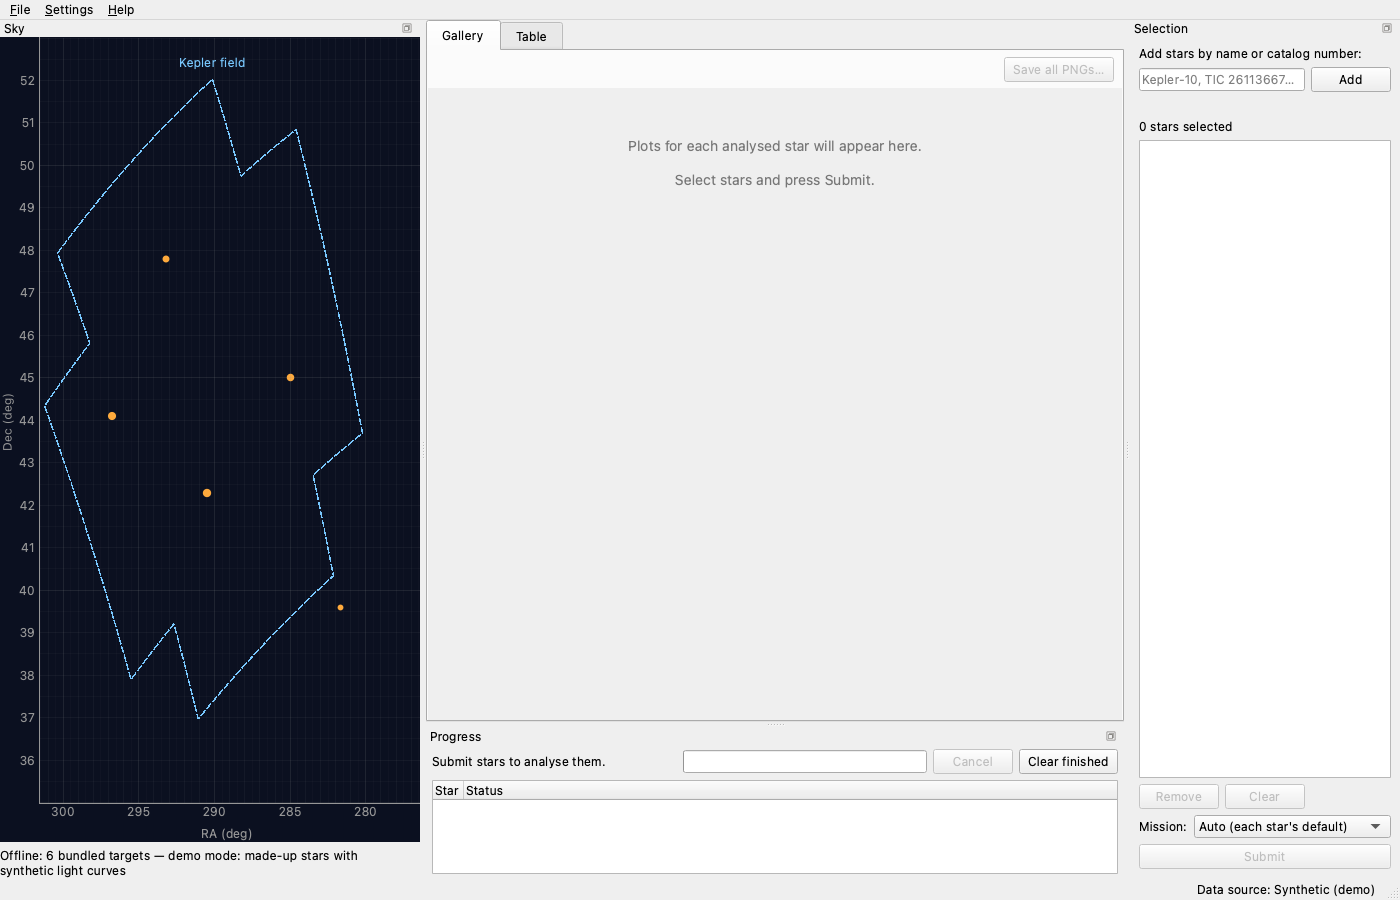
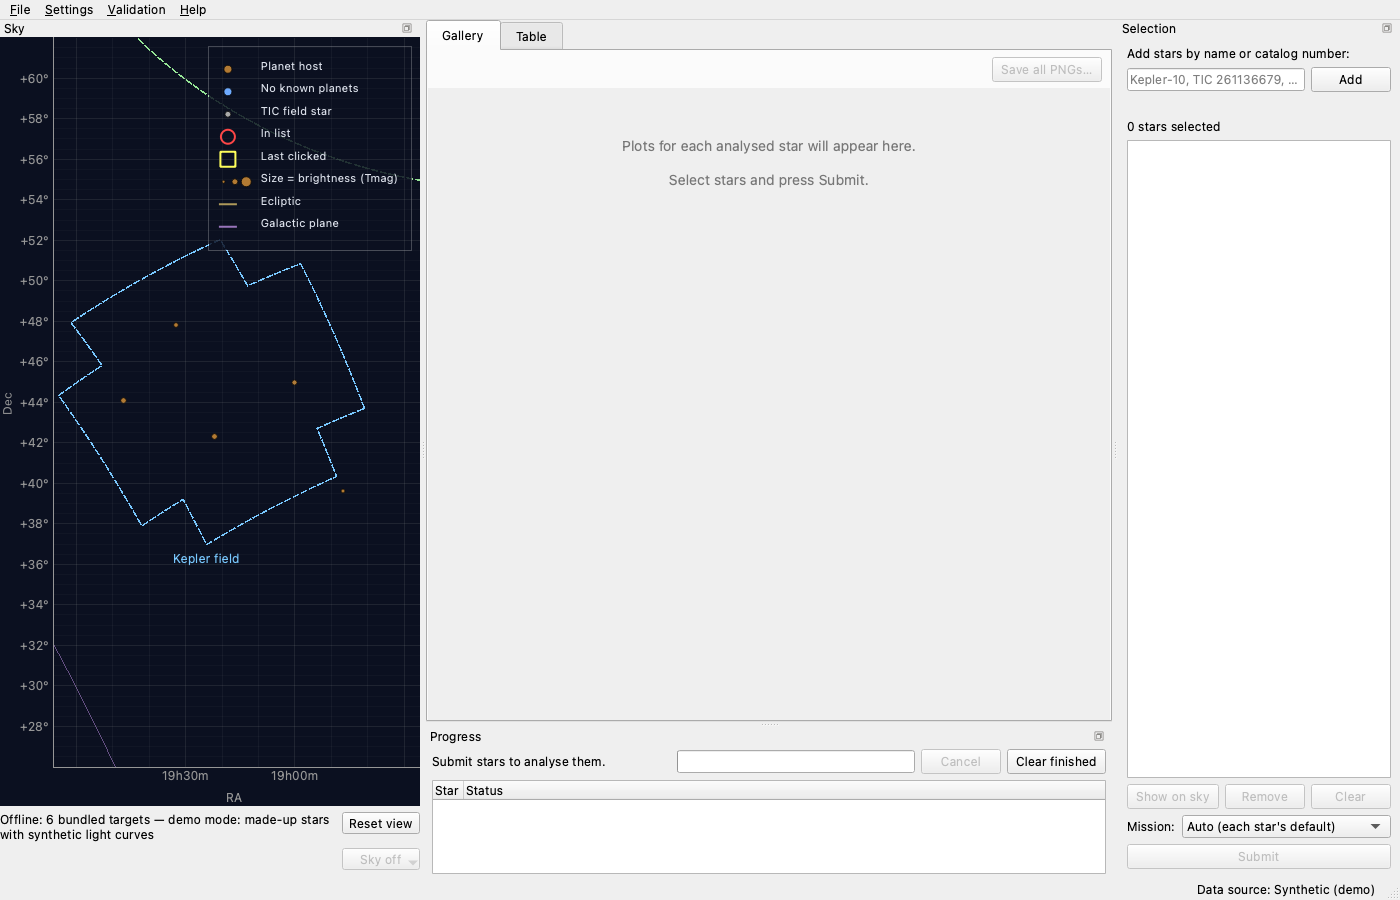
Refresh the sky screenshots and document the sky map's controls
- Retake 01-skeleton and 02-sky-selection (legend, reference lines, footer
  with Reset view and Background); add 09-sky-zoomed: Kepler-10 at 1.5°
  with its live TIC field (taken without the sky image: CDS didn't answer).
- take_shots.py: register the zoomed shot; skip a shot whose live service
  doesn't answer and keep its old file.
- sky_selection_host.py: the zoomed shot and a live-sky option; the host
  window always uses a temporary cutout cache, so the stand-in image never
  reaches the user's cache.
- README: a "The sky map" section on the legend, click and right-click,
  pan/zoom with mouse and trackpad, Reset view, Show on sky, the zoom hint,
  the Background chooser and demo mode; cache/hips/ under Cache.

diff --git a/tests/sky_selection_host.py b/tests/sky_selection_host.py
@@ -1,12 +1,15 @@
 """A test-only window holding the sky view and selection panel, wired as the dashboard will be.
 
 Used by tests/test_gui_sky.py, tests/test_gui_selection.py and the
-02-sky-selection.png screenshot.  Catalog data come from the responses
-recorded in tests/data/catalog/recorded.json, so nothing touches the network.
+02-sky-selection.png and 09-sky-zoomed.png screenshots.  In the tests,
+catalog data come from the responses recorded in
+tests/data/catalog/recorded.json and sky images from a recorded cutout, so
+nothing touches the network; the screenshots use the live services.
 """
 
 from __future__ import annotations
 
+import sys
 import tempfile
 from pathlib import Path
 
@@ -17,6 +20,7 @@ from PySide6.QtWidgets import QApplication, QSplitter
 
 from transitory.catalog import skycatalog
 from transitory.catalog.client import CatalogClient, RecordedTransport, ResponseCache
+from transitory.catalog.hips import CutoutCache
 from transitory.gui.main_window import TARGET_ZOOM_DEG
 from transitory.gui.selection_panel import SelectionPanel
 from transitory.gui.sky_view import SkyView
@@ -24,6 +28,7 @@ from transitory.gui.sky_view import SkyView
 RECORDED = Path(__file__).resolve().parent / "data" / "catalog" / "recorded.json"
 HIPS_CUTOUT = Path(__file__).resolve().parent / "data" / "catalog" / "hips_cutout.jpg"
 SHOT_NAME = "02-sky-selection.png"
+SHOT_WAIT_S = 90  # for a live TIC field or sky image
 
 
 class RecordedHipsTransport:
@@ -46,11 +51,18 @@ def recorded_client(cache_dir: Path | str | None = None) -> CatalogClient:
 
 
 class SkySelectionWindow(QSplitter):
-    def __init__(self, client: CatalogClient):
+    """``live_sky``: sky images from CDS hips2fits, not the recorded cutout.
+
+    Either way cutouts go to a fresh temporary cache, so the recorded one
+    never lands in the user's cache and a live shot never shows it.
+    """
+
+    def __init__(self, client: CatalogClient, live_sky: bool = False):
         super().__init__(Qt.Orientation.Horizontal)
         self.setWindowTitle("Sky and selection")
         self.client = client
-        self.sky = SkyView(client=client, hips_transport=RecordedHipsTransport())
+        self.sky = SkyView(client=client, hips_transport=None if live_sky else RecordedHipsTransport(),
+                           hips_cache=CutoutCache(tempfile.mkdtemp(prefix="transitory-hips-")))
         self.panel = SelectionPanel(client=client)
         self.addWidget(self.sky)
         self.addWidget(self.panel)
@@ -67,8 +79,9 @@ class SkySelectionWindow(QSplitter):
         super().closeEvent(event)
 
 
-def make_sky_selection_window(client: CatalogClient | None = None) -> SkySelectionWindow:
-    window = SkySelectionWindow(client or recorded_client())
+def make_sky_selection_window(client: CatalogClient | None = None,
+                              live_sky: bool = False) -> SkySelectionWindow:
+    window = SkySelectionWindow(client or recorded_client(), live_sky=live_sky)
     window.resize(1400, 800)
     window.setSizes([1020, 380])
     window.show()
@@ -157,7 +170,15 @@ def shot_sky_selection(app, client: CatalogClient | None = None):
     cached query; the bundled targets when offline) so the shot shows the
     real sky; the listed stars are bundled targets, so no name lookups run.
     """
-    window = make_sky_selection_window(client or CatalogClient())
+    window = _listed_window(app, client)
+    window.panel.entry.setText("KOI-72, LHS 3844")
+    app.processEvents()
+    return window
+
+
+def _listed_window(app, client: CatalogClient | None, live_sky: bool = False) -> SkySelectionWindow:
+    """The shots' window: hosts on the sky; TOI-270, pi Men and (clicked on the sky) Kepler-10 listed."""
+    window = make_sky_selection_window(client or CatalogClient(), live_sky=live_sky)
     sky, panel = window.sky, window.panel
     sky.set_catalog(skycatalog.host_stars(client=window.client))
     bundled = {s.name: s for s in skycatalog.offline_targets()}
@@ -166,6 +187,51 @@ def shot_sky_selection(app, client: CatalogClient | None = None):
     app.processEvents()
     kepler10 = next(s for s in sky.hosts if s.name == "Kepler-10")
     sky.click_at(kepler10.ra, kepler10.dec)  # adds it to the list through the wiring
-    panel.entry.setText("KOI-72, LHS 3844")
+    app.processEvents()
+    return window
+
+
+class ShotUnavailable(RuntimeError):
+    """A live service a screenshot needs did not answer; the shot is not taken."""
+
+
+def wait_until(condition, timeout_s: float) -> bool:
+    """Run the event loop until ``condition()`` holds or ``timeout_s`` passes; whether it held."""
+    for _ in range(int(timeout_s * 10)):
+        if condition():
+            return True
+        QTest.qWait(100)
+    return condition()
+
+
+def shot_sky_zoomed(app, client: CatalogClient | None = None, attempts: int = 3):
+    """Screenshot state: Kepler-10 shown on the sky from the list, with its TIC field and sky image.
+
+    With no ``client`` the field comes from live MAST and the image from
+    live CDS hips2fits.  A field that won't load raises ``ShotUnavailable``;
+    an image that won't load after ``attempts`` tries leaves the background
+    off (the status line says so), with a warning.
+    """
+    window = _listed_window(app, client, live_sky=client is None)
+    sky, panel = window.sky, window.panel
+    items = panel.list.findItems("Kepler-10", Qt.MatchFlag.MatchStartsWith)
+    panel.list.setCurrentItem(items[0])
+    panel.show_button.click()  # centres on it at TARGET_ZOOM_DEG: the field and image load
+    background = sky.background
+    field_failed = lambda: "TIC stars unavailable" in sky.status_label.text()  # noqa: E731
+    if not wait_until(lambda: sky.field_region is not None or field_failed(), SHOT_WAIT_S) or not sky.field:
+        status = sky.status_label.text()
+        window.close()
+        raise ShotUnavailable(f"no TIC field for Kepler-10: {status}")
+    for attempt in range(attempts):
+        if wait_until(lambda: background.shown is not None or "unavailable" in background.status, SHOT_WAIT_S) \
+                and background.shown is not None:
+            break
+        print(f"sky image, try {attempt + 1} of {attempts}: {background.status or 'no reply'}", file=sys.stderr)
+        background.clear()
+        background.update()
+    else:
+        print("warning: no sky image; the zoomed shot has the background off", file=sys.stderr)
+        sky.set_background(None)
     app.processEvents()
     return window

diff --git a/tools/take_shots.py b/tools/take_shots.py
@@ -6,6 +6,8 @@
 
 Each later step registers its shot in SHOTS: a function that drives a
 demo-mode window into the state to capture and returns the widget to grab.
+The sky shots use the live archive, MAST and CDS; when a service they need
+doesn't answer, the shot is skipped and its old file kept.
 """
 
 from __future__ import annotations
@@ -24,7 +26,7 @@ from PySide6.QtWidgets import QApplication  # noqa: E402
 
 from dashboard_host import shot_credits, shot_gallery, shot_running, shot_table  # noqa: E402
 from harness import make_main_window, shot  # noqa: E402
-from sky_selection_host import shot_sky_selection  # noqa: E402
+from sky_selection_host import ShotUnavailable, shot_sky_selection, shot_sky_zoomed  # noqa: E402
 from transitory.config import shots_dir  # noqa: E402
 
 
@@ -61,6 +63,7 @@ SHOTS = {
     "credits": ("06-credits.png", shot_credits),
     "validation": ("07-validation.png", shot_validation),
     "final": ("08-final.png", shot_final),
+    "sky-zoomed": ("09-sky-zoomed.png", shot_sky_zoomed),
 }
 
 
@@ -71,14 +74,20 @@ def main(argv: list[str]) -> int:
         print(f"unknown shot(s): {', '.join(unknown)}; known: {', '.join(SHOTS)}", file=sys.stderr)
         return 2
     app = QApplication.instance() or QApplication([])
+    skipped = []
     for name in names:
         filename, func = SHOTS[name]
-        widget = func(app)
+        try:
+            widget = func(app)
+        except ShotUnavailable as exc:
+            print(f"skipped {filename} (kept as it was): {exc}", file=sys.stderr)
+            skipped.append(filename)
+            continue
         app.processEvents()
         path = shot(widget, filename, shots_dir())
         print(f"wrote {path.relative_to(ROOT)}")
         widget.close()
-    return 0
+    return 1 if skipped else 0
 
 
 if __name__ == "__main__":

diff --git a/README.md b/README.md
@@ -42,11 +42,10 @@ After `pip install -e .` the same is available as the `transitory` command.
 
 In the window:
 
-1. **Choose stars.**  Drag to pan and use the wheel to zoom the sky map,
-   which shows the known planet hosts and, zoomed in to a few degrees, the
-   TESS Input Catalog stars in view; click a star to add it.  Or type names in
-   the selection panel and press Enter: planet names, TIC / KIC / EPIC
-   numbers, KOI / TOI numbers or SIMBAD names, one or comma-separated.
+1. **Choose stars.**  Click a star on the sky map to add it (see
+   [The sky map](#the-sky-map)).  Or type names in the selection panel and
+   press Enter: planet names, TIC / KIC / EPIC numbers, KOI / TOI numbers or
+   SIMBAD names, one or comma-separated.
 2. **Submit.**  The stars are analysed in background workers, with the
    mission preference chosen in the panel; the progress panel shows each
    star's step.
@@ -57,6 +56,46 @@ In the window:
    vetting notes.
 4. **Keep them.**  *File ▸ Save all plots as PNG…* and *File ▸ Export table
    as CSV…*.  Every plot carries the data credits of its star.
+
+### The sky map
+
+![The sky map and selection panel](docs/shots/02-sky-selection.png)
+
+The map plots the known planet hosts from the NASA Exoplanet Archive by
+right ascension and declination, with RA increasing to the left as on the
+sky.  The Kepler field and the TESS continuous viewing zones are outlined,
+and faint lines mark the ecliptic and the galactic plane.  The legend in
+the top-right corner keys the markers: planet host (orange, translucent so
+the Kepler field's CCD modules show through), no known planets (blue), TIC
+field star (grey), in the selection list (red ring), and last clicked
+(yellow square).  Marker size follows brightness (Tmag).
+
+- **Pan:** drag, or scroll with two fingers on a trackpad.  Panning carries on
+  across 0h.
+- **Zoom:** use the mouse wheel, pinch on a trackpad, or hold Ctrl (Cmd on
+  macOS) and scroll.  On a Windows touchpad that doesn't report scroll
+  phases, two-finger scrolling zooms instead of panning.
+- **Reset view** (or the Home key) returns to the starting view.
+- **Click** a star to add it to the selection list, or to remove it if it's
+  already listed.  The white ring shows which star a click will pick.
+- **Right-click** for a menu: add or remove the star, *Centre here*, *Copy
+  name* / *Copy TIC ID*, and *Show ecliptic and galactic plane*, which turns
+  the two lines off and on.
+- **Show on sky** in the selection panel, or double-clicking a listed star,
+  centres the map on that star at 1.5°.  Typing one new name does the same.
+
+The two lines under the map show the catalog status, the hovered position
+and the star under the pointer.  Zoomed out, the status says *Zoom in below
+2° to see TIC stars (Tmag ≤ 13)*.  Below 2°, the TESS Input Catalog stars in
+view are loaded from MAST.  Below 10°, a survey image is drawn behind the
+stars.  Choose it with the **Background** button under Reset view: DSS2
+(the default), 2MASS, PanSTARRS (PS1), or *Sky off*.  Images come from CDS
+hips2fits and are cached.
+
+![Zoomed in on Kepler-10, with its TIC field](docs/shots/09-sky-zoomed.png)
+
+In demo mode the map shows only the demo stars: no TIC stars are loaded,
+and the Background button is disabled.
 
 ### Sectors / quarters per star
 
@@ -139,7 +178,8 @@ Downloaded data are kept so nothing is fetched twice:
 - light-curve FITS files (via lightkurve) under `cache/mastDownload/`, with
   `cache/index.json` recording which files answer which query;
 - MAST and Exoplanet Archive query results under `cache/catalog/` (archive
-  results are refreshed after 30 days).
+  results are refreshed after 30 days);
+- sky-map background images from CDS hips2fits under `cache/hips/`.
 
 `cache/` is in the checkout by default and is not committed (`.gitignore`).
 Set `TRANSITORY_CACHE_DIR` to put it elsewhere, and `TRANSITORY_REPORTS_DIR`
@@ -155,7 +195,10 @@ pytest -n auto         # in parallel (pytest-xdist)
 ```
 
 The GUI tests run headless (pytest-qt).  The screenshots in `docs/shots/` are
-made with `python tools/take_shots.py`.
+made with `python tools/take_shots.py`.  The sky shots use the live services
+(Exoplanet Archive, MAST, CDS).  When a service doesn't answer, the TIC-field
+shot keeps its old file and the zoomed shot is taken without the sky
+image.
 
 ## Platform notes
 
